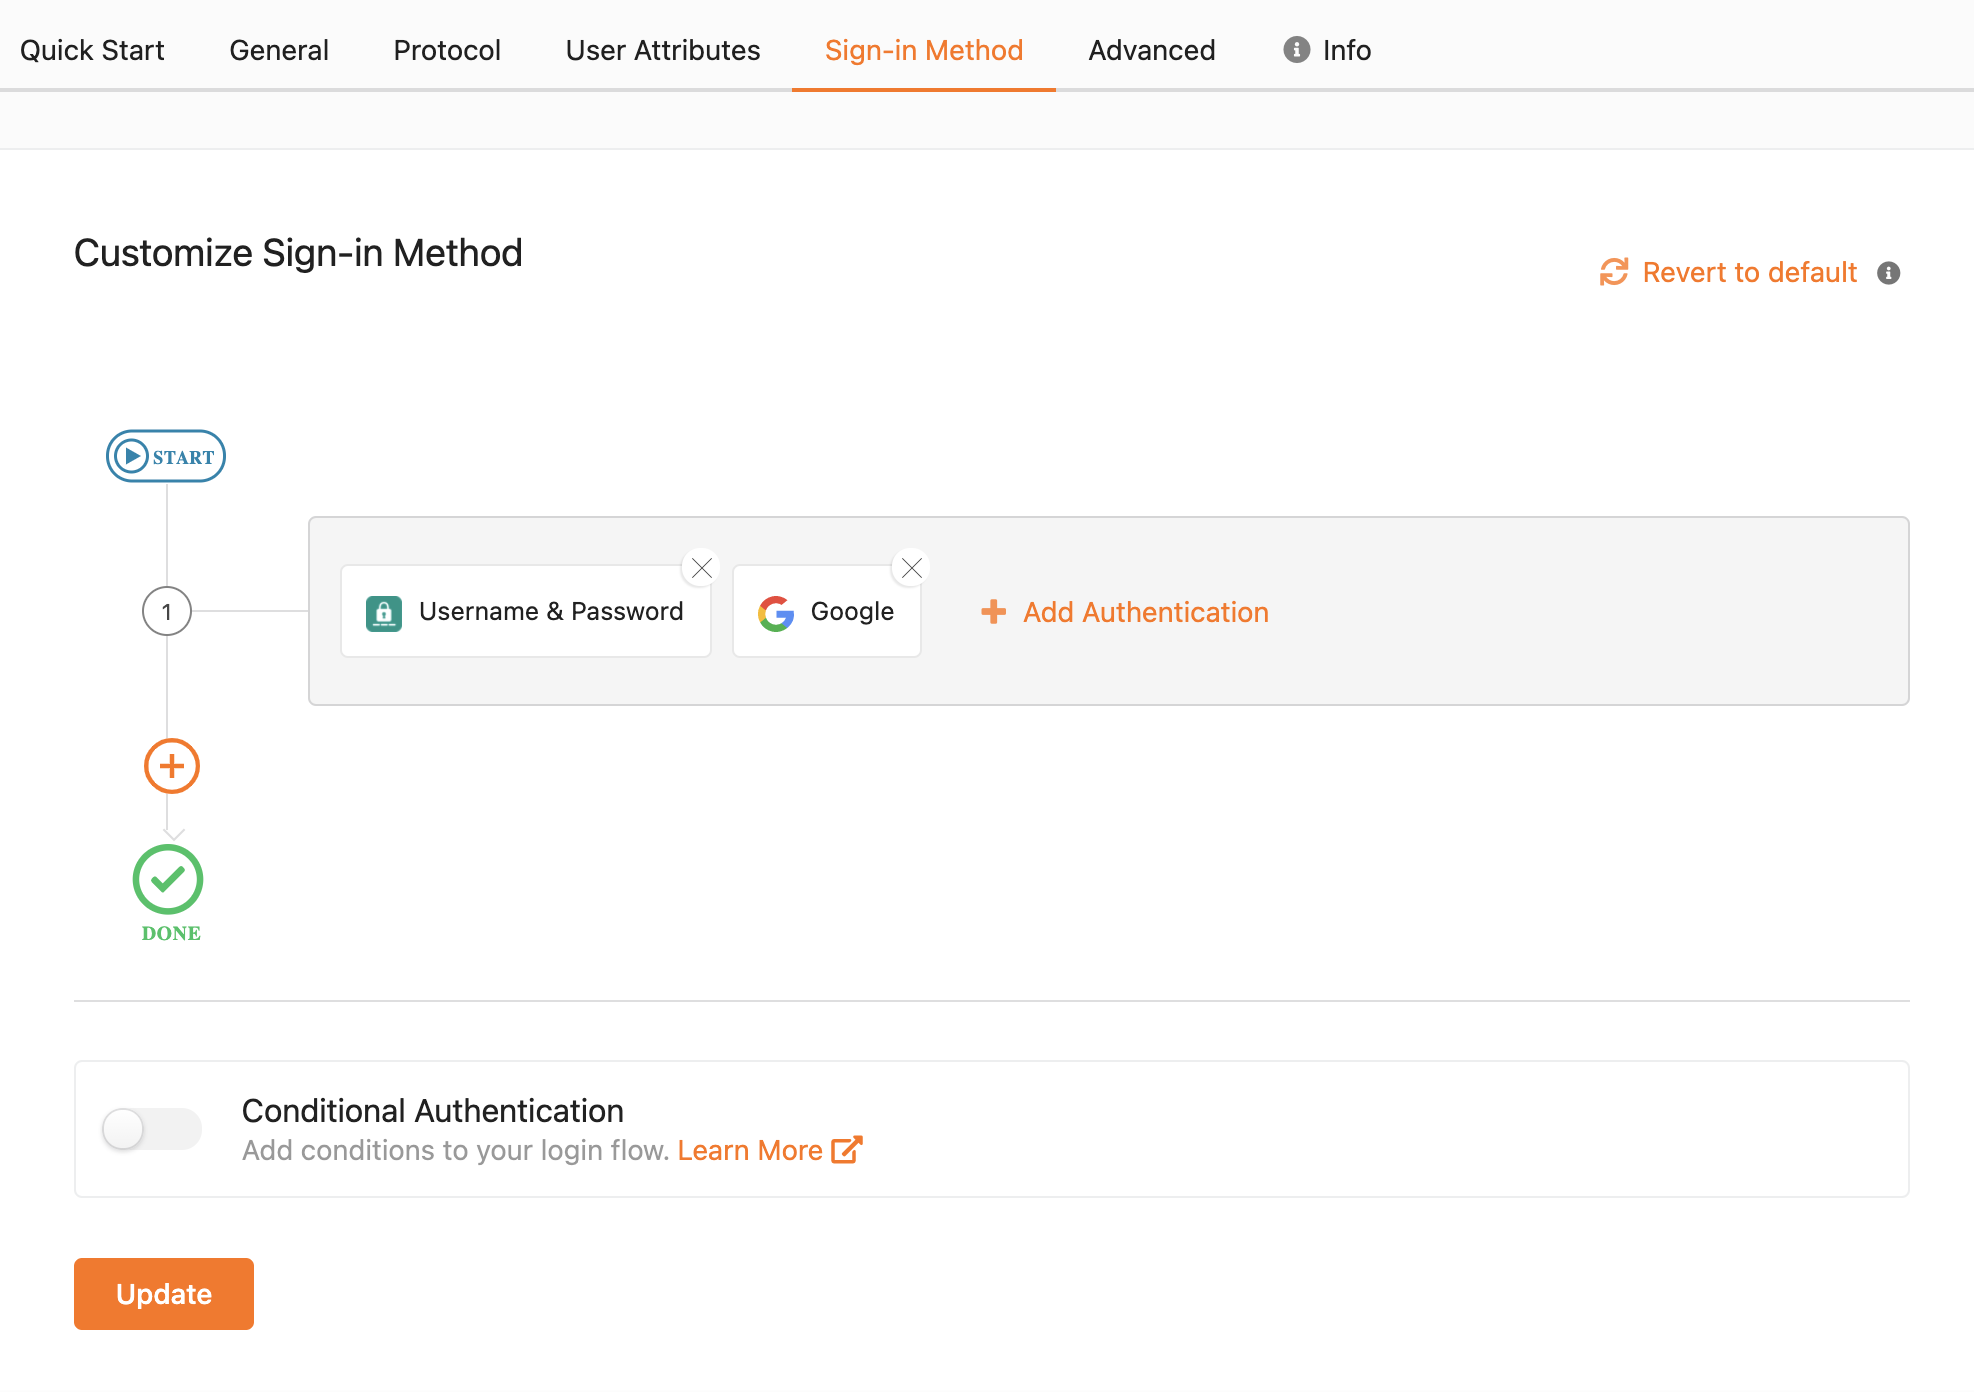
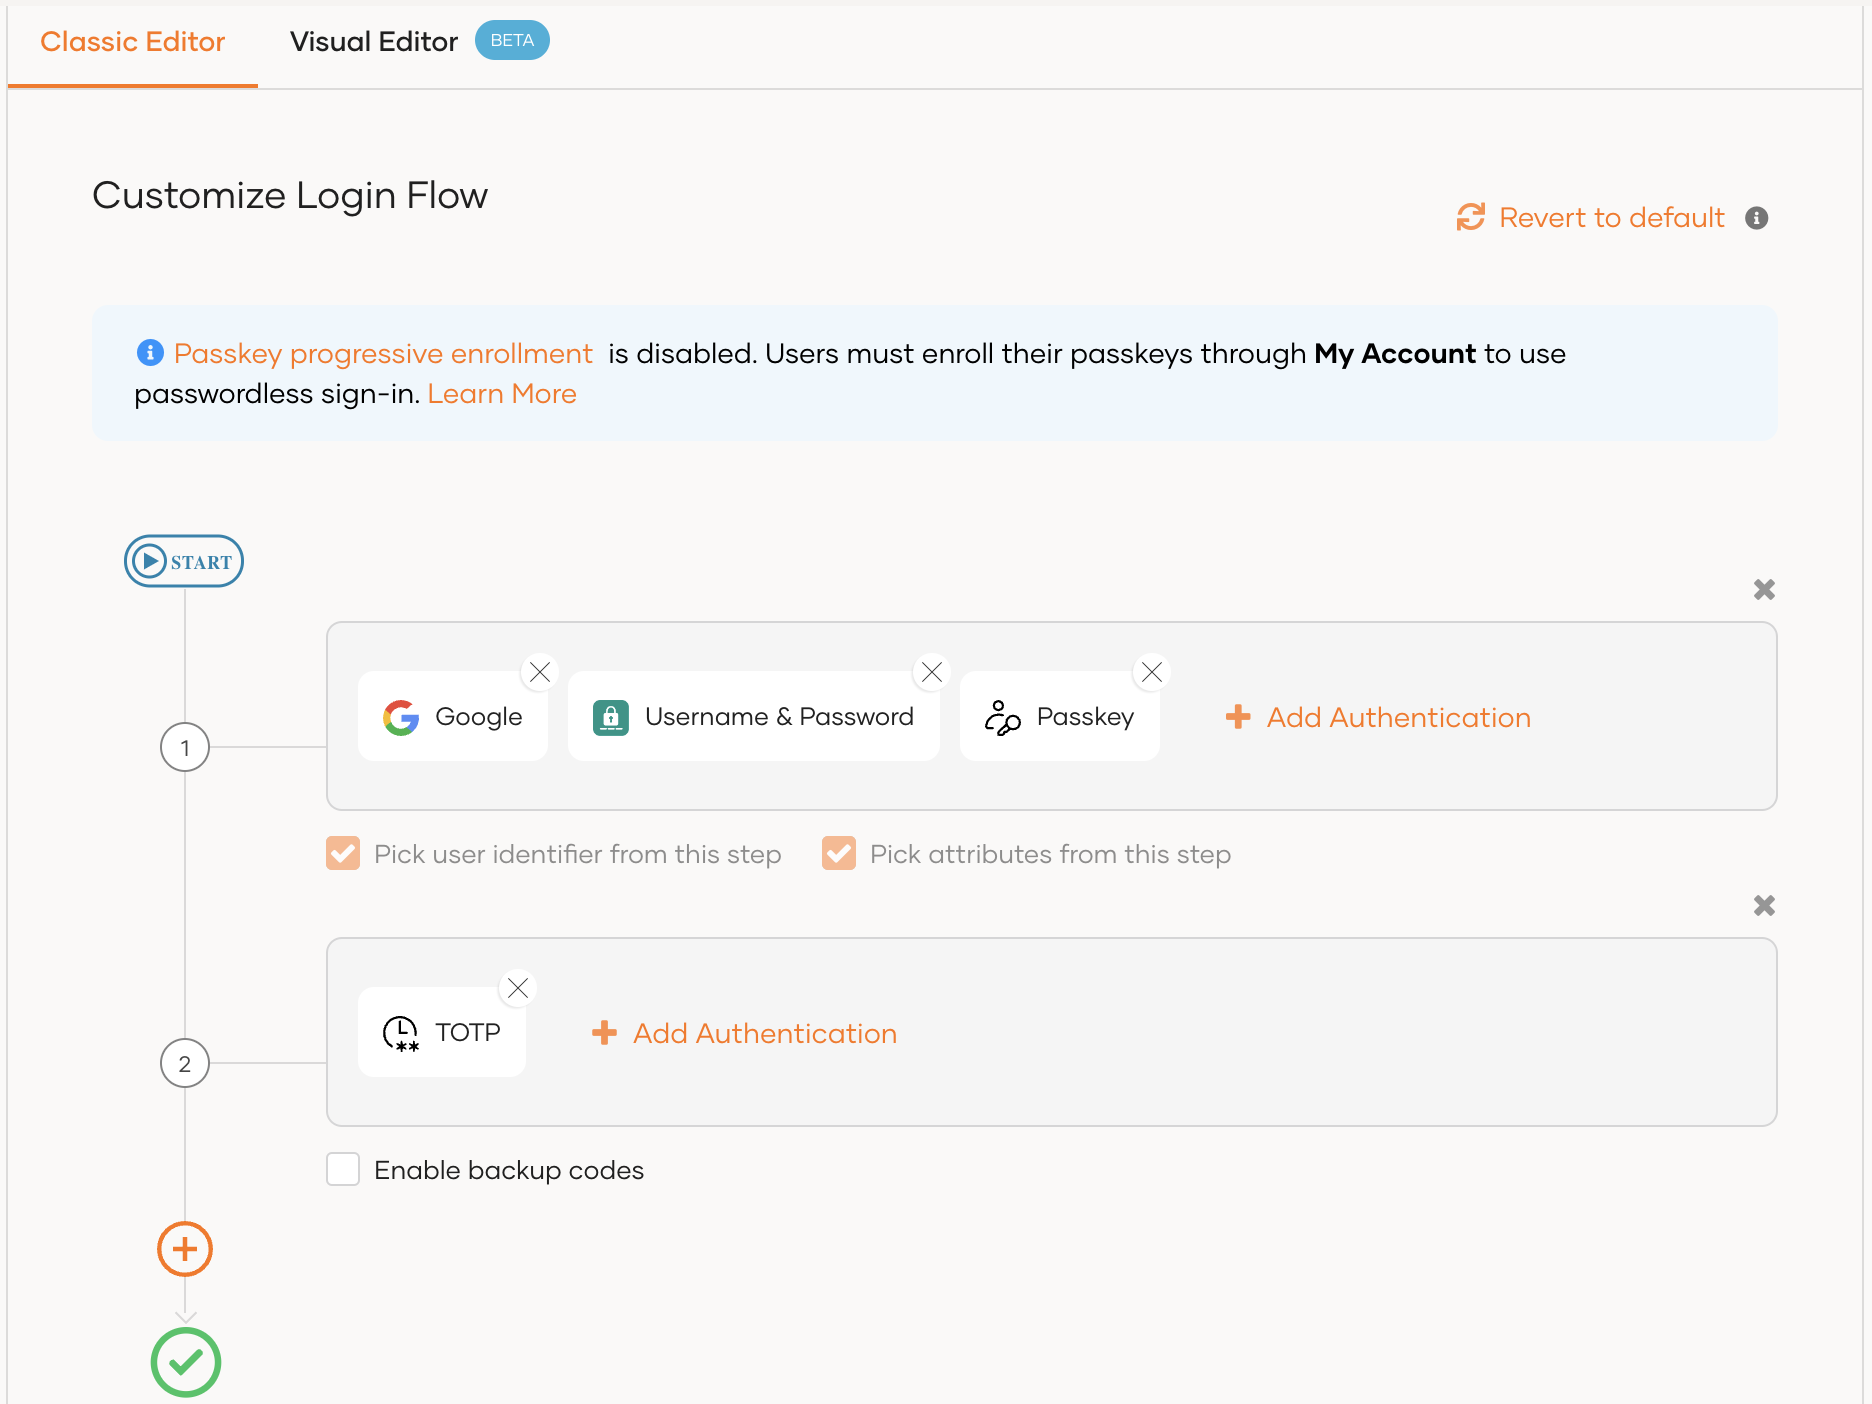
Updated Authentication script and related info

diff --git a/petcare-enterprise-apps/docs/PETDESK-B2C-LOCAL.md b/petcare-enterprise-apps/docs/PETDESK-B2C-LOCAL.md
@@ -25,45 +25,77 @@ When deploying the webhook through choreo, provide the salesforce related config
 14. Add a tick on the Requested Column for the **Full Name** and click **Update**.
 15. Then go to the **Sign-In Method** tab.
 16. Configure **Google login** as described in https://wso2.com/asgardeo/docs/guides/authentication/social-login/add-google-login/
-17. As shown in the below, add **Username & Password** as an **Authentication** step.
+17. As shown in the below, add **Username & Password, Passey, TOTP** as an **Authentication** step.
+![Alt text](readme-resources/sign-in-methods.png?raw=true "Sign In Methods")
 18. To perform the acr-based step up authentication add the following conditional script to the login flow.
 
 ```
-// Define conditional authentication by passing one or many Authentication Context Class References 
-// as comma separated values.
+var promptTOTP = function (context) {
+    Log.info('------------- promptTOTP is requested 1234');
+    var totp = 'http://wso2.org/claims/identity/secretkey';
+    var totpState = context.currentKnownSubject.localClaims[totp];
+    var idpName = context.currentStep.idp;
+    var authenticator = context.steps[1].authenticator;
+    if (authenticator !== 'FIDOAuthenticator' && idpName !== 'LOCAL') {
+        var user = getAssociatedLocalUser(context.currentKnownSubject);
+        if (user) {
+            Log.info('-----------Associated local user profile available for IdP: ' + idpName);
+            totpState = user.localClaims[totp];
+        }
+    }
+    return totpState;
+};
 
-// Specify the ordered list of ACR here.
+var handleStep2 = function () {
+    Log.info('------------- Prompt TOTP ');
+    executeStep(2, {
+        onSuccess: function (context) {
+            Log.info("------------- TOTP success. Setting acr2");
+            var user = context.steps[1].subject;
+            user.claims["http://wso2.org/claims/acr"] = "acr2";
+        }
+    });
+};
+
+var addAcrSetting = function (user, acr) {
+    var loginMethod = user.authenticator === 'FIDOAuthenticator' ? 'passkey' : 'username pwd';
+    Log.info("------------- Logged in from " + loginMethod + ". Setting " + acr);
+    user.claims["http://wso2.org/claims/acr"] = acr;
+};
+
 var supportedAcrValues = ['acr1', 'acr2'];
 
 var onLoginRequest = function (context) {
-    var selectedAcr = selectAcrFrom(context, supportedAcrValues);
-    Log.info('--------------- ACR selected: ' + selectedAcr);
-    context.selectedAcr = selectedAcr;
-    switch (selectedAcr) {
-        case supportedAcrValues[0]:
-            executeStep(1, {
-                onSuccess: function (context) {
+    var requestedAcr = selectAcrFrom(context, supportedAcrValues);
+    //context.requestedAcr = requestedAcr;
+    if (requestedAcr == "acr2") {
+        executeStep(1, {
+            onSuccess: function (context) {
+                if (promptTOTP(context)) {
+                    handleStep2();
+                } else {
                     var user = context.steps[1].subject;
-                    user.claims["http://wso2.org/claims/acr"] = "acr1"
+                    var authenticator = context.steps[1].authenticator;
+                    if ('FIDOAuthenticator' == authenticator) {
+                        addAcrSetting(user, "acr2");
+                    } else {
+                        handleStep2();
+                    }
                 }
-            });
-            break;
-        case supportedAcrValues[1]:
-            executeStep(1);
-            executeStep(2, {
-                onSuccess: function (context) {
+            }
+        });
+    } else {
+        executeStep(1, {
+            onSuccess: function (context) {
+                if (promptTOTP(context)) {
+                    handleStep2();
+                } else {
                     var user = context.steps[1].subject;
-                    user.claims["http://wso2.org/claims/acr"] = "acr2"
+                    var acrToSet = context.steps[1].authenticator === 'FIDOAuthenticator' ? 'acr2' : 'acr1';
+                    addAcrSetting(user, acrToSet);
                 }
-            });
-            break;
-        default:
-            executeStep(1, {
-                onSuccess: function (context) {
-                    var user = context.steps[1].subject;
-                    user.claims["http://wso2.org/claims/acr"] = "acr1"
-                }
-            });
+            }
+        });
     }
 };
 ```

diff --git a/petcare-enterprise-apps/docs/PETDESK-B2C-CLOUD.md b/petcare-enterprise-apps/docs/PETDESK-B2C-CLOUD.md
@@ -31,49 +31,79 @@ Authorized redirect URLs: https://localhost:3000 (This will be updated with the 
 17. Then go to the **Sign-In Method** tab.
 18. Configure **Google login** as described in https://wso2.com/asgardeo/docs/guides/authentication/social-login/add-google-login/
 19. As shown in the below, add **Username & Password** as an **Authentication** step.
+![Alt text](readme-resources/sign-in-methods.png?raw=true "Sign In Methods")
 20. To perform the acr-based step up authentication add the following conditional script to the login flow.
 
 ```
-// Define conditional authentication by passing one or many Authentication Context Class References 
-// as comma separated values.
+var promptTOTP = function (context) {
+    Log.info('------------- promptTOTP is requested 1234');
+    var totp = 'http://wso2.org/claims/identity/secretkey';
+    var totpState = context.currentKnownSubject.localClaims[totp];
+    var idpName = context.currentStep.idp;
+    var authenticator = context.steps[1].authenticator;
+    if (authenticator !== 'FIDOAuthenticator' && idpName !== 'LOCAL') {
+        var user = getAssociatedLocalUser(context.currentKnownSubject);
+        if (user) {
+            Log.info('-----------Associated local user profile available for IdP: ' + idpName);
+            totpState = user.localClaims[totp];
+        }
+    }
+    return totpState;
+};
 
-// Specify the ordered list of ACR here.
+var handleStep2 = function () {
+    Log.info('------------- Prompt TOTP ');
+    executeStep(2, {
+        onSuccess: function (context) {
+            Log.info("------------- TOTP success. Setting acr2");
+            var user = context.steps[1].subject;
+            user.claims["http://wso2.org/claims/acr"] = "acr2";
+        }
+    });
+};
+
+var addAcrSetting = function (user, acr) {
+    var loginMethod = user.authenticator === 'FIDOAuthenticator' ? 'passkey' : 'username pwd';
+    Log.info("------------- Logged in from " + loginMethod + ". Setting " + acr);
+    user.claims["http://wso2.org/claims/acr"] = acr;
+};
+
 var supportedAcrValues = ['acr1', 'acr2'];
 
 var onLoginRequest = function (context) {
-    var selectedAcr = selectAcrFrom(context, supportedAcrValues);
-    Log.info('--------------- ACR selected: ' + selectedAcr);
-    context.selectedAcr = selectedAcr;
-    switch (selectedAcr) {
-        case supportedAcrValues[0]:
-            executeStep(1, {
-                onSuccess: function (context) {
+    var requestedAcr = selectAcrFrom(context, supportedAcrValues);
+    //context.requestedAcr = requestedAcr;
+    if (requestedAcr == "acr2") {
+        executeStep(1, {
+            onSuccess: function (context) {
+                if (promptTOTP(context)) {
+                    handleStep2();
+                } else {
                     var user = context.steps[1].subject;
-                    user.claims["http://wso2.org/claims/acr"] = "acr1"
+                    var authenticator = context.steps[1].authenticator;
+                    if ('FIDOAuthenticator' == authenticator) {
+                        addAcrSetting(user, "acr2");
+                    } else {
+                        handleStep2();
+                    }
                 }
-            });
-            break;
-        case supportedAcrValues[1]:
-            executeStep(1);
-            executeStep(2, {
-                onSuccess: function (context) {
+            }
+        });
+    } else {
+        executeStep(1, {
+            onSuccess: function (context) {
+                if (promptTOTP(context)) {
+                    handleStep2();
+                } else {
                     var user = context.steps[1].subject;
-                    user.claims["http://wso2.org/claims/acr"] = "acr2"
+                    var acrToSet = context.steps[1].authenticator === 'FIDOAuthenticator' ? 'acr2' : 'acr1';
+                    addAcrSetting(user, acrToSet);
                 }
-            });
-            break;
-        default:
-            executeStep(1, {
-                onSuccess: function (context) {
-                    var user = context.steps[1].subject;
-                    user.claims["http://wso2.org/claims/acr"] = "acr1"
-                }
-            });
+            }
+        });
     }
 };
 ```
-
-![Alt text](readme-resources/sign-in-methods.png?raw=true "Sign In Methods")
 
 ## Step 1.2: Enable features in Asgardeo
 
